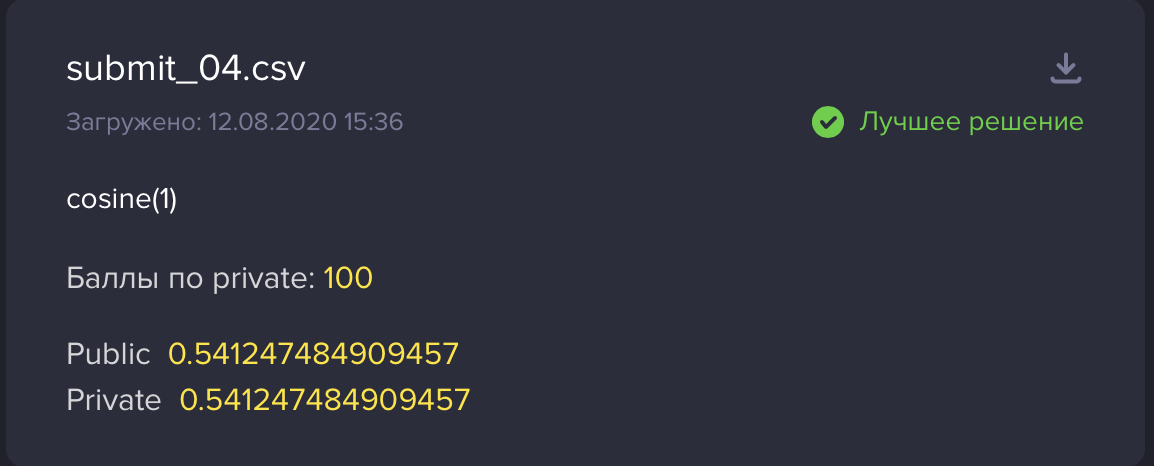
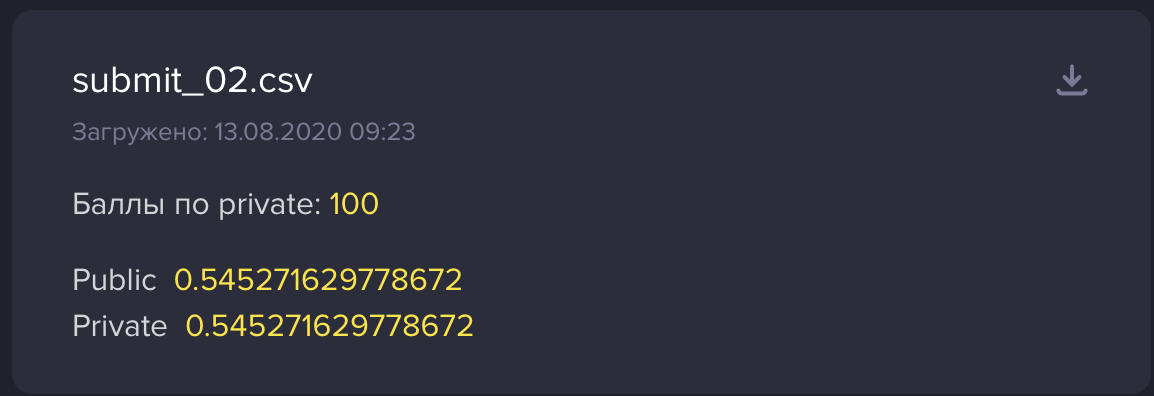
add link to notebooks and replace top score for 2nd task

diff --git a/README.md b/README.md
@@ -5,5 +5,5 @@ Admission test for Data Analyst School MADE
 
 | compititon | link |score|
 | ------------- | ------------- |----------------|
-| comp_1 | https://cups.mail.ru/tasks/1034 |![score1](imgs/score_task_1.png)|
-| comp_2  | https://cups.mail.ru/tasks/1035 |![score2](imgs/score_task_2.png)|
+| [comp_1](https://github.com/StepDan23/made_comp/blob/master/comp_1/rf_shap_pca_cv.ipynb) | https://cups.mail.ru/tasks/1034 |![score1](imgs/score_task_1.png)|
+| [comp_1](https://github.com/StepDan23/made_comp/blob/master/comp_2/baner_recommendations.ipynb) | https://cups.mail.ru/tasks/1035 |![score2](imgs/score_task_2.png)|
